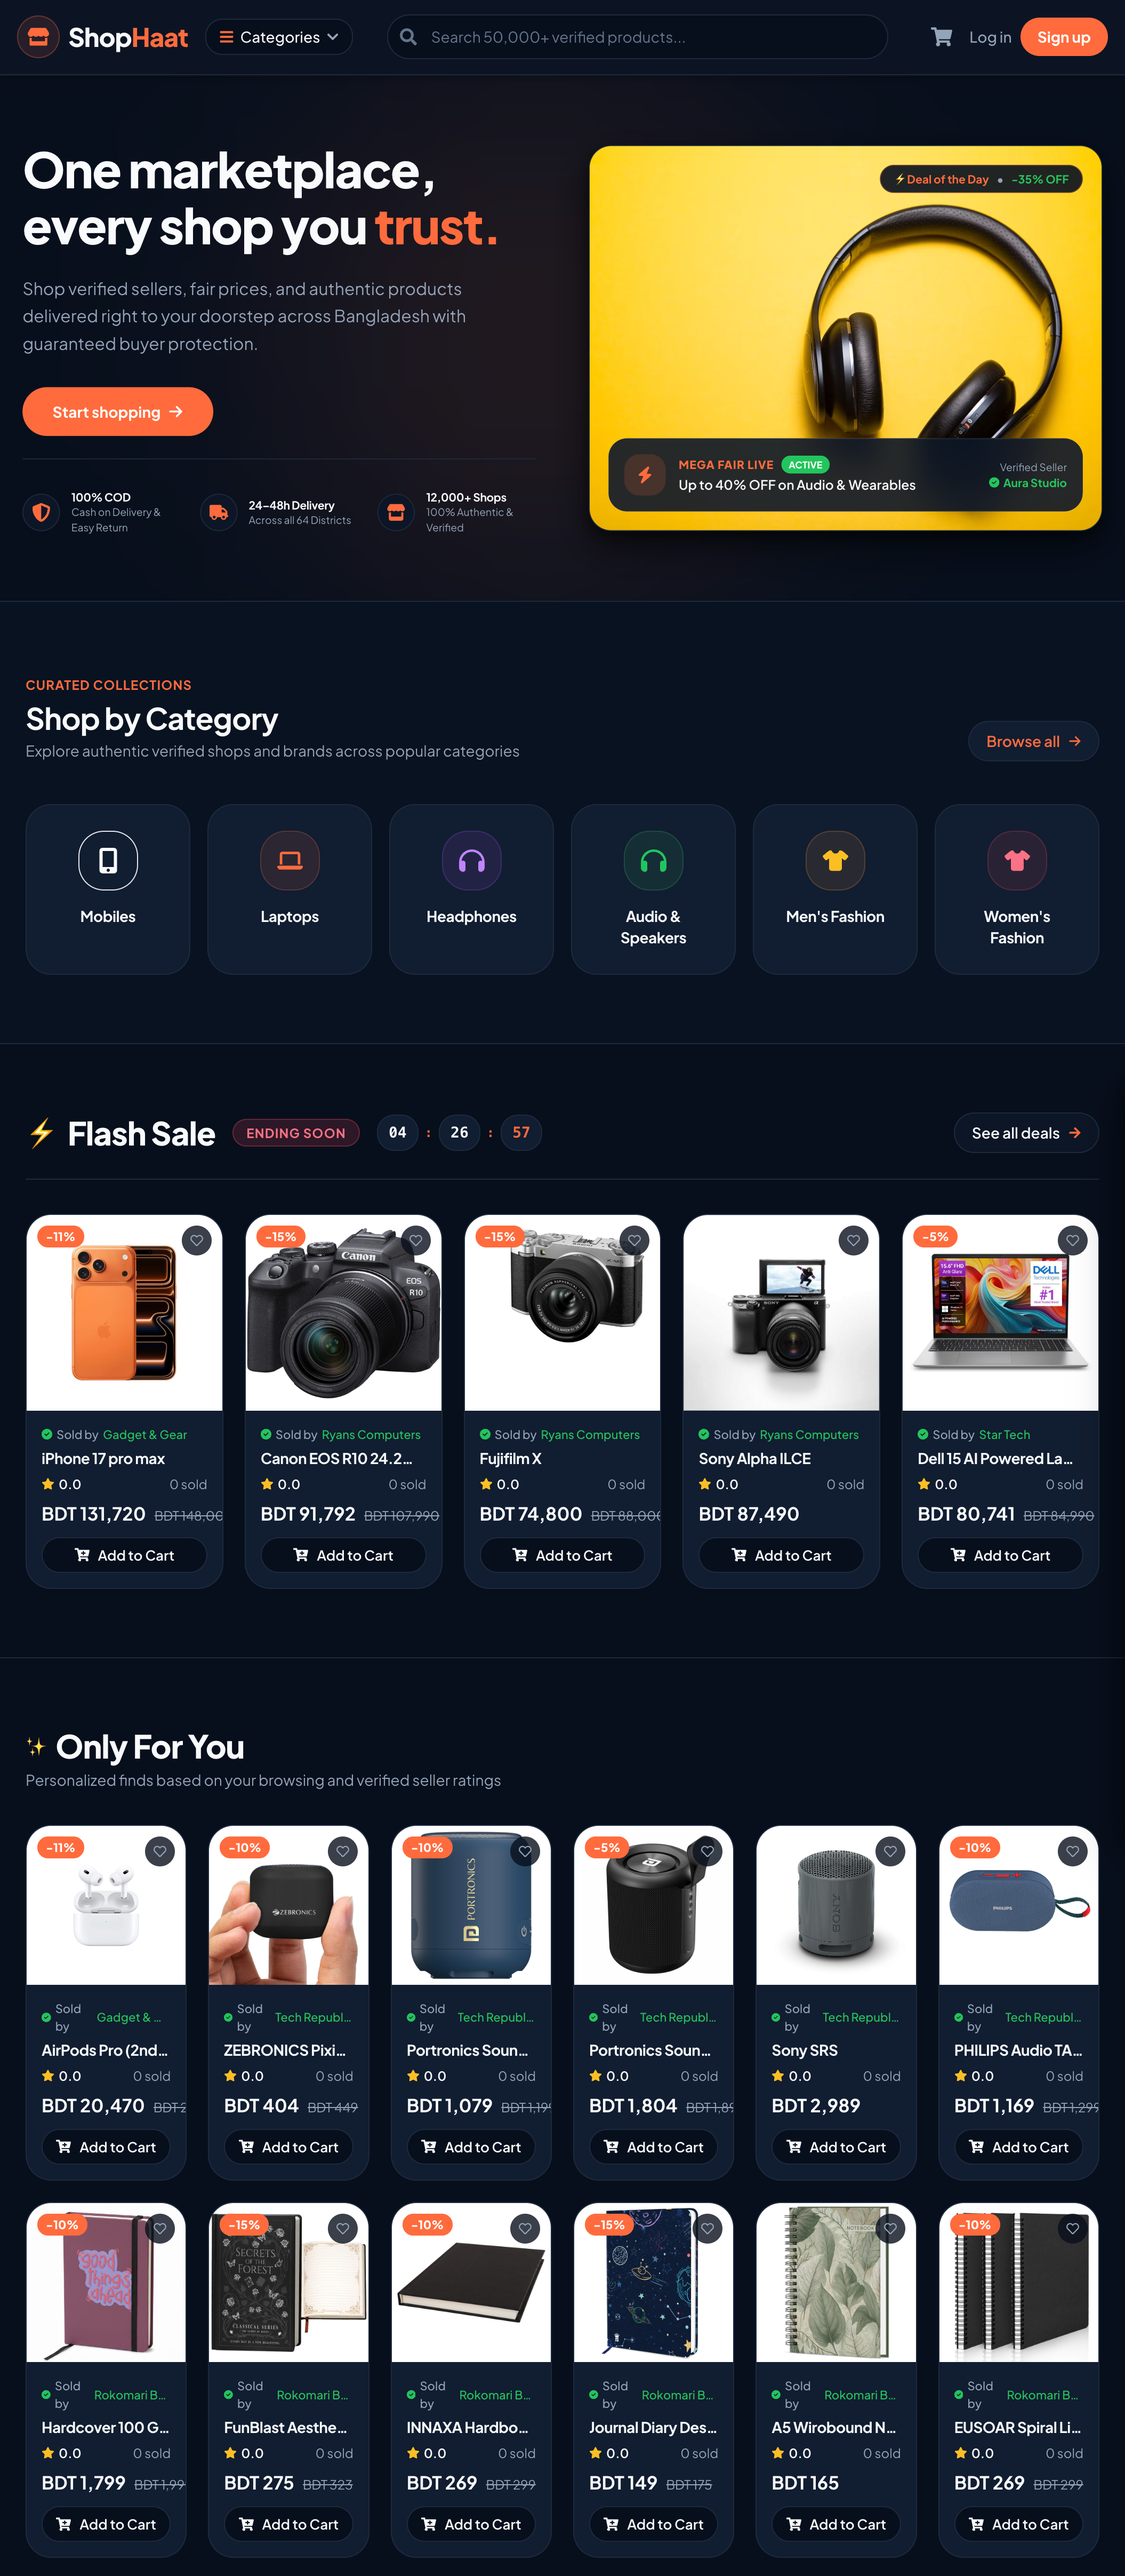
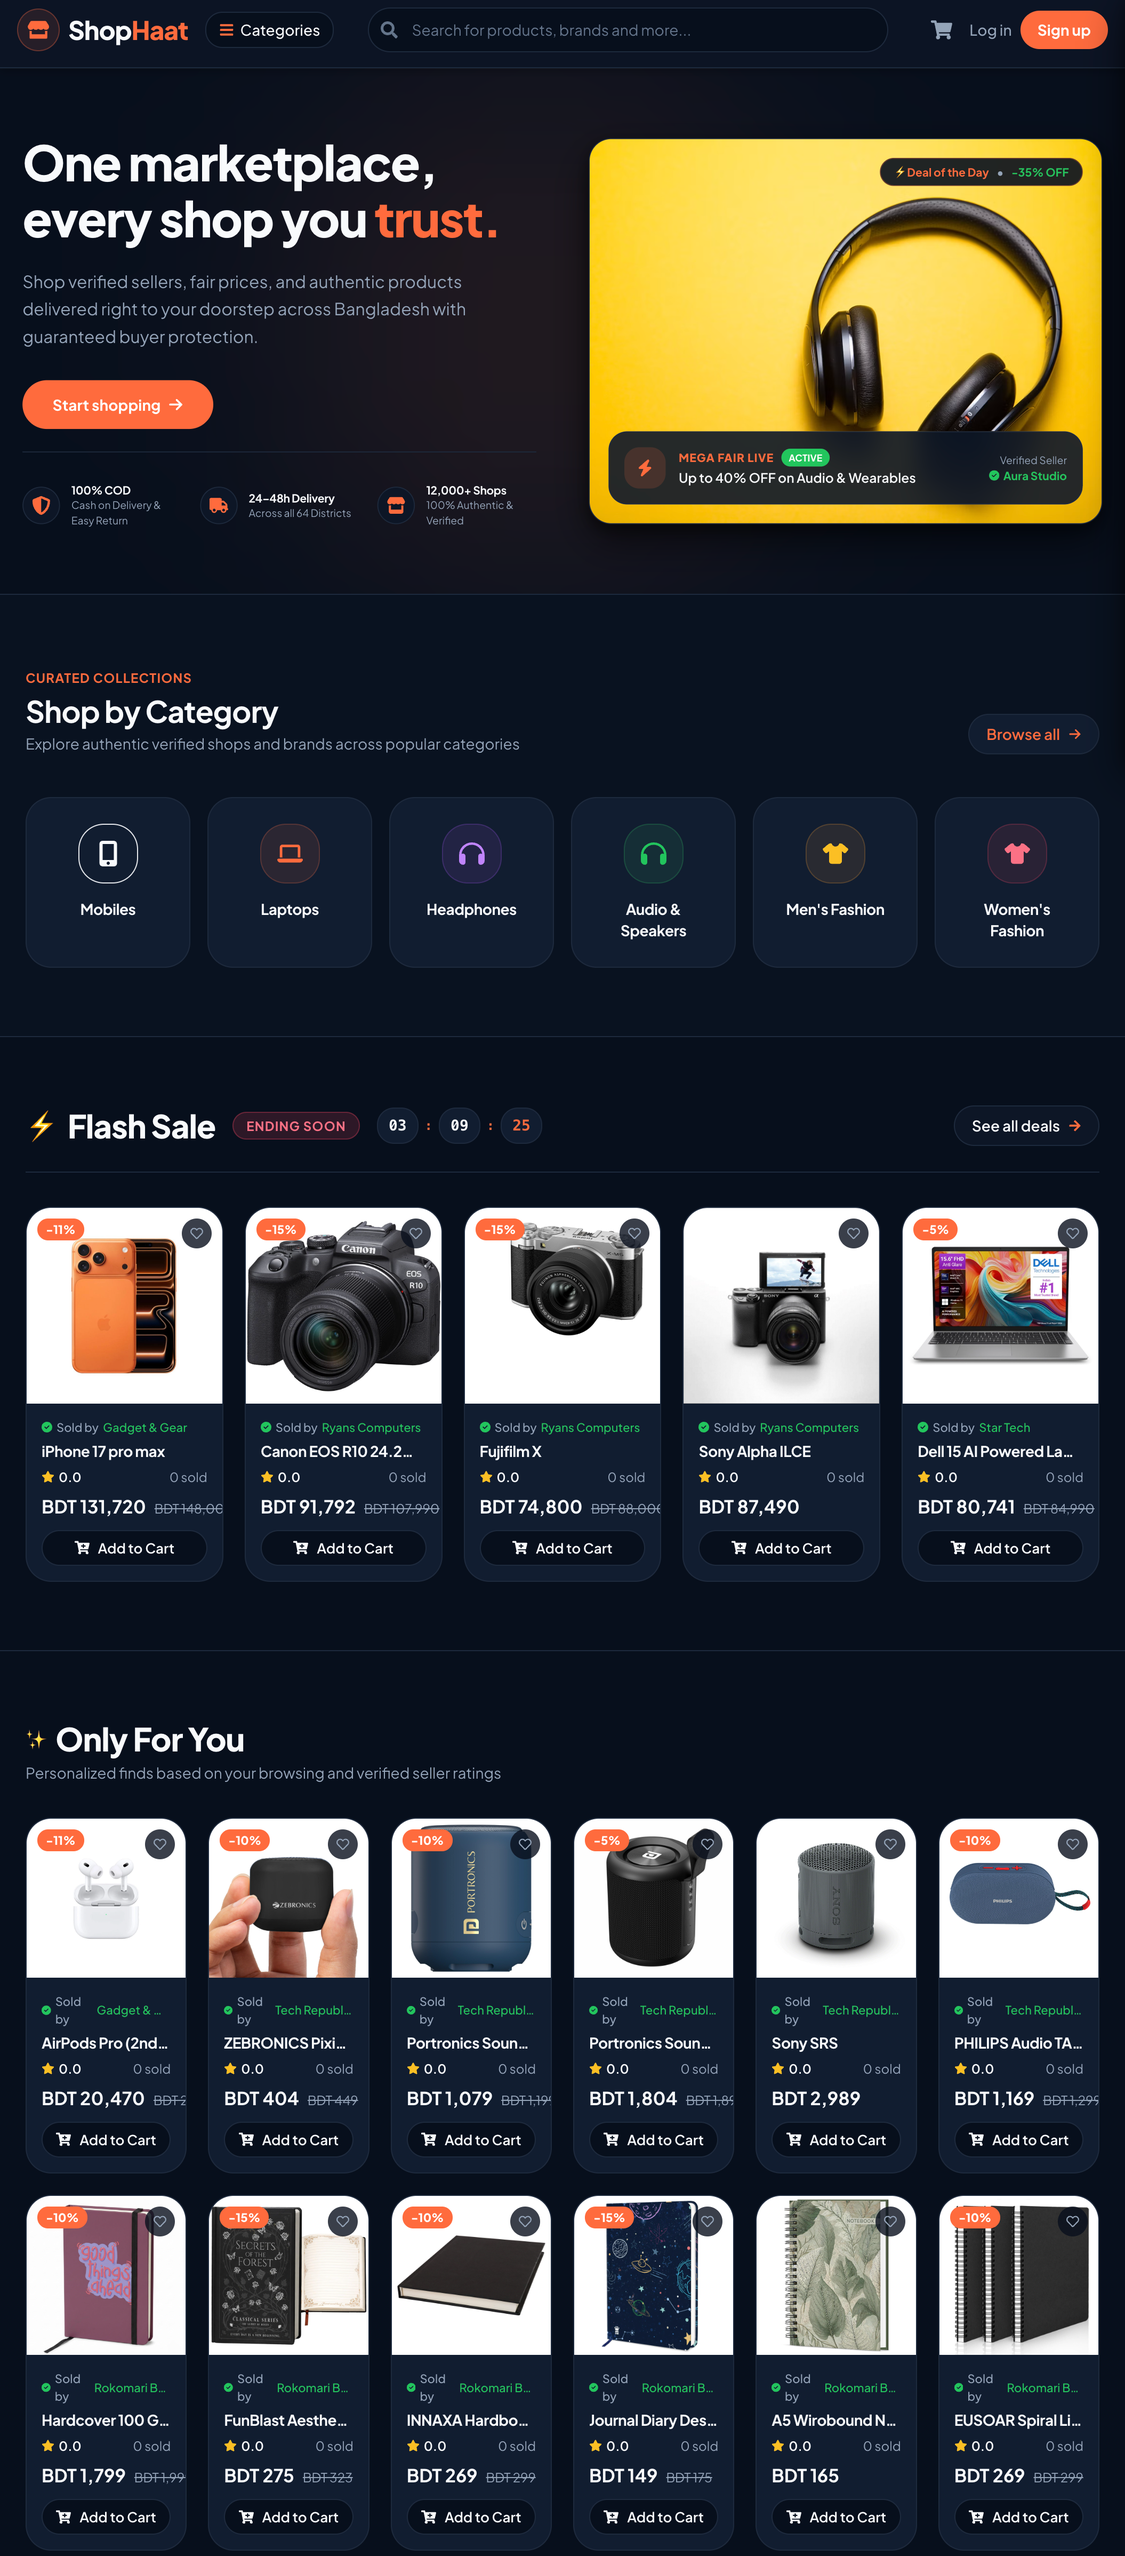
Fixes UI issues

diff --git a/frontend/src/components/layout/SearchBar.jsx b/frontend/src/components/layout/SearchBar.jsx
@@ -1,14 +1,13 @@
-import { useEffect, useState } from "react";
-import { FaSearch, FaTimes } from "react-icons/fa";
-import { useNavigate, useSearchParams } from "react-router-dom";
+import { useEffect, useState, useRef } from "react";
+import { FaSearch, FaTimes, FaSpinner } from "react-icons/fa";
+import { useNavigate, useSearchParams, Link } from "react-router-dom";
+import { fetchProducts } from "../../services/catalogService";
 
 /**
- * Search input. Submitting navigates to /catalog?search=<term>.
- * - Pre-fills from `?search=` if present.
- * - `variant="dark"` renders the input on the dark navbar surface
- *   (saffron accent on focus, glassmorphism backdrop).
- * - `onNavigate` callback fires after a successful submit (used by the
- *   mobile drawer to close itself).
+ * Search input with live autocomplete dropdown.
+ * - Submitting navigates to /catalog?search=<term>.
+ * - Typing fetches top 5 results and shows them in a dropdown.
+ * - `variant="dark"` renders the input on the dark navbar surface.
  */
 export function SearchBar({
   onNavigate,
@@ -19,14 +18,57 @@ export function SearchBar({
   const navigate = useNavigate();
   const [params] = useSearchParams();
   const [value, setValue] = useState(params.get("search") || "");
+  const [suggestions, setSuggestions] = useState([]);
+  const [isSearching, setIsSearching] = useState(false);
+  const [showSuggestions, setShowSuggestions] = useState(false);
+  const wrapperRef = useRef(null);
+  const inputRef = useRef(null);
 
-  // Keep local state in sync if URL changes externally (e.g. nav from another page).
+  // Sync URL search param
   useEffect(() => {
     setValue(params.get("search") || "");
   }, [params]);
 
+  // Click outside to close dropdown
+  useEffect(() => {
+    function handleClickOutside(event) {
+      if (wrapperRef.current && !wrapperRef.current.contains(event.target)) {
+        setShowSuggestions(false);
+      }
+    }
+    document.addEventListener("mousedown", handleClickOutside);
+    return () => document.removeEventListener("mousedown", handleClickOutside);
+  }, []);
+
+  // Debounced search
+  useEffect(() => {
+    const term = value.trim();
+    if (!term) {
+      setSuggestions([]);
+      setIsSearching(false);
+      return;
+    }
+
+    // Only search if the term is different from the URL param (to avoid searching on initial load unless we want to)
+    // Actually, always search on type.
+    setIsSearching(true);
+    const timeoutId = setTimeout(async () => {
+      try {
+        const data = await fetchProducts({ search: term, page_size: 5 });
+        setSuggestions(data.results || []);
+      } catch (err) {
+        setSuggestions([]);
+      } finally {
+        setIsSearching(false);
+      }
+    }, 400); // 400ms debounce
+
+    return () => clearTimeout(timeoutId);
+  }, [value]);
+
   function handleSubmit(event) {
-    event.preventDefault();
+    event?.preventDefault();
+    setShowSuggestions(false);
     const term = value.trim();
     navigate(term ? `/catalog?search=${encodeURIComponent(term)}` : "/catalog");
     if (onNavigate) onNavigate();
@@ -35,35 +77,112 @@ export function SearchBar({
   const isDark = variant === "dark";
 
   return (
-    <form onSubmit={handleSubmit} role="search" className={`relative w-full ${className}`}>
-      <FaSearch
-        className={`pointer-events-none absolute left-3 top-1/2 -translate-y-1/2 ${
-          isDark ? "text-text-muted" : "text-text-muted"
-        }`}
-      />
-      <input
-        type="search"
-        value={value}
-        onChange={(e) => setValue(e.target.value)}
-        placeholder={isDark ? "Search 50,000+ verified products..." : "Search for products, brands and more..."}
-        autoFocus={autoFocus}
-        aria-label="Search products"
-        className={`w-full rounded-full border py-2.5 pl-10 pr-10 text-sm transition-colors focus:outline-none ${
-          isDark
-            ? "border-border-subtle bg-canvas text-text-primary placeholder:text-text-muted focus:border-brand focus:ring-2 focus:ring-brand/30"
-            : "border-border-subtle bg-canvas-elevated text-text-primary placeholder:text-text-muted focus:border-brand focus:bg-canvas focus:ring-2 focus:ring-brand/30"
-        }`}
-      />
-      {value && (
-        <button
-          type="button"
-          onClick={() => setValue("")}
-          aria-label="Clear search"
-          className="absolute right-2 top-1/2 -translate-y-1/2 rounded p-1 text-text-muted hover:bg-canvas-elevated hover:text-text-primary"
-        >
-          <FaTimes />
-        </button>
+    <div ref={wrapperRef} className={`relative w-full ${className}`}>
+      <form onSubmit={handleSubmit} role="search" className="relative w-full">
+        <FaSearch
+          className={`pointer-events-none absolute left-3 top-1/2 -translate-y-1/2 ${
+            isDark ? "text-text-muted" : "text-text-muted"
+          }`}
+        />
+        <input
+          ref={inputRef}
+          type="search"
+          value={value}
+          onChange={(e) => {
+            setValue(e.target.value);
+            setShowSuggestions(true);
+          }}
+          onFocus={() => {
+            if (value.trim()) setShowSuggestions(true);
+          }}
+          placeholder="Search for products, brands and more..."
+          autoFocus={autoFocus}
+          aria-label="Search products"
+          className={`w-full rounded-full border py-2.5 pl-10 pr-10 text-sm transition-colors focus:outline-none ${
+            isDark
+              ? "border-border-subtle bg-canvas text-text-primary placeholder:text-text-muted focus:border-brand focus:ring-2 focus:ring-brand/30"
+              : "border-border-subtle bg-canvas-elevated text-text-primary placeholder:text-text-muted focus:border-brand focus:bg-canvas focus:ring-2 focus:ring-brand/30"
+          }`}
+        />
+        {value && (
+          <button
+            type="button"
+            onClick={() => {
+              setValue("");
+              setSuggestions([]);
+              setShowSuggestions(false);
+              inputRef.current?.focus();
+            }}
+            aria-label="Clear search"
+            className="absolute right-2 top-1/2 -translate-y-1/2 rounded p-1 text-text-muted hover:bg-canvas-elevated hover:text-text-primary"
+          >
+            <FaTimes />
+          </button>
+        )}
+      </form>
+
+      {/* Dropdown Suggestions */}
+      {showSuggestions && value.trim() && (
+        <div className="absolute left-0 right-0 top-full z-50 mt-2 overflow-hidden rounded-xl border border-border-subtle bg-canvas-elevated shadow-float backdrop-blur-md">
+          {isSearching ? (
+            <div className="flex items-center justify-center py-6 text-text-muted">
+              <FaSpinner className="mr-2 animate-spin" /> Searching...
+            </div>
+          ) : suggestions.length > 0 ? (
+            <ul className="max-h-80 overflow-y-auto py-2">
+              {suggestions.map((product) => (
+                <li key={product.id}>
+                  <Link
+                    to={`/products/${product.slug}`}
+                    onClick={() => {
+                      setShowSuggestions(false);
+                      if (onNavigate) onNavigate();
+                    }}
+                    className="flex items-center gap-3 px-4 py-2 transition-colors hover:bg-canvas"
+                  >
+                    <div className="h-10 w-10 shrink-0 overflow-hidden rounded-md bg-canvas">
+                      {product.thumbnail || product.image ? (
+                        <img 
+                          src={product.thumbnail || product.image} 
+                          alt={product.name} 
+                          className="h-full w-full object-cover"
+                        />
+                      ) : (
+                        <div className="flex h-full w-full items-center justify-center text-[10px] text-text-muted">No img</div>
+                      )}
+                    </div>
+                    <div className="min-w-0 flex-1">
+                      <p className="truncate text-sm font-medium text-text-primary">
+                        {product.name}
+                      </p>
+                      <p className="text-xs text-brand font-semibold">
+                        ৳{Math.round(
+                          product.discount_percent > 0 
+                            ? (product.min_price || product.base_price) * (1 - product.discount_percent / 100) 
+                            : (product.min_price || product.base_price)
+                        ).toLocaleString()}
+                      </p>
+                    </div>
+                  </Link>
+                </li>
+              ))}
+              <li>
+                <button
+                  type="button"
+                  onClick={handleSubmit}
+                  className="w-full border-t border-border-subtle bg-canvas py-2 text-center text-sm font-medium text-brand hover:bg-canvas-elevated"
+                >
+                  View all results for "{value}"
+                </button>
+              </li>
+            </ul>
+          ) : (
+            <div className="py-6 text-center text-sm text-text-secondary">
+              No products found for "{value}"
+            </div>
+          )}
+        </div>
       )}
-    </form>
+    </div>
   );
 }

diff --git a/frontend/src/components/layout/Navbar.jsx b/frontend/src/components/layout/Navbar.jsx
@@ -88,17 +88,32 @@ export function Navbar() {
         </Link>
 
         {/* Categories trigger (desktop) */}
-        <button
-          type="button"
-          onClick={() => setIsMegaOpen((v) => !v)}
-          aria-haspopup="menu"
-          aria-expanded={isMegaOpen}
-          className="hidden items-center gap-1.5 rounded-lg border border-border-subtle bg-canvas px-3 py-1.5 text-sm font-medium text-text-primary transition-colors hover:border-brand/50 md:inline-flex"
+        <div 
+          className="hidden md:flex self-stretch items-center"
+          onMouseEnter={() => {
+            clearTimeout(window.megaMenuTimer);
+            setIsMegaOpen(true);
+          }}
+          onMouseLeave={() => {
+            window.megaMenuTimer = setTimeout(() => setIsMegaOpen(false), 200);
+          }}
         >
-          <FaBars className="h-3.5 w-3.5 text-brand" />
-          Categories
-          <FaChevronDown className="h-3 w-3 text-text-secondary" />
-        </button>
+          <button
+            type="button"
+            aria-haspopup="menu"
+            aria-expanded={isMegaOpen}
+            className="flex items-center gap-1.5 rounded-lg border border-border-subtle bg-canvas px-3 py-1.5 text-sm font-medium text-text-primary transition-colors hover:border-brand/50"
+          >
+            <FaBars className="h-3.5 w-3.5 text-brand" />
+            Categories
+          </button>
+          
+          <MegaMenu
+            categories={categories}
+            isOpen={isMegaOpen}
+            onClose={() => setIsMegaOpen(false)}
+          />
+        </div>
 
         {/* Search */}
         <div className="flex-1 min-w-0 px-2 sm:px-4">
@@ -262,14 +277,7 @@ export function Navbar() {
       </div>
 
 
-      {/* Mega menu (desktop only) */}
-      <MegaMenu
-        categories={categories}
-        isOpen={isMegaOpen}
-        onClose={() => setIsMegaOpen(false)}
-      />
 
-      {/* Mobile drawer */}
       <MobileDrawer
         isOpen={isMobileOpen}
         onClose={() => setIsMobileOpen(false)}

diff --git a/README.md b/README.md
@@ -19,11 +19,12 @@ ShopHaat is a complete marketplace web application where buyers can browse curat
 ## ✨ Features
 
 ### 🛍 For Buyers
-- **Extensive Catalog:** Browse products with search and category navigation.
+- **Extensive Catalog:** Browse products with smart live-autocomplete search and seamless category navigation.
 - **Rich Product Pages:** View detailed product descriptions, user reviews, ratings, and related items.
 - **Seamless Shopping:** Enjoy a persistent cart and wishlist across sessions.
-- **Easy Checkout:** Multi-step checkout.
+- **Easy Checkout:** Streamlined multi-step checkout with Cash on Delivery.
 - **Order Tracking & Savings:** Support for coupon codes and complete order history.
+- **Responsive Experience:** Fully optimized mobile and desktop shopping experience with modern interactive UI components.
 
 ### 🏪 For Sellers
 - **Dedicated Dashboard:** Manage inventory, products, and incoming orders seamlessly.
